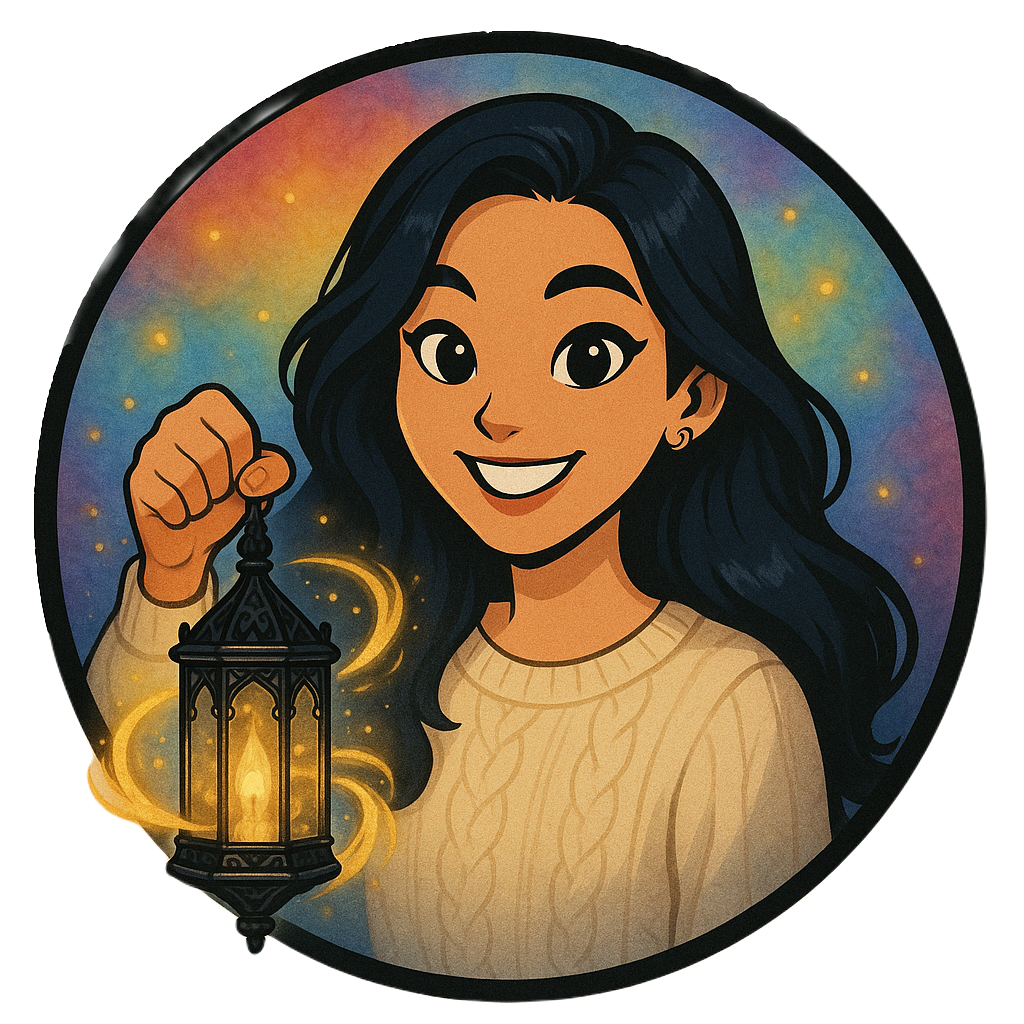
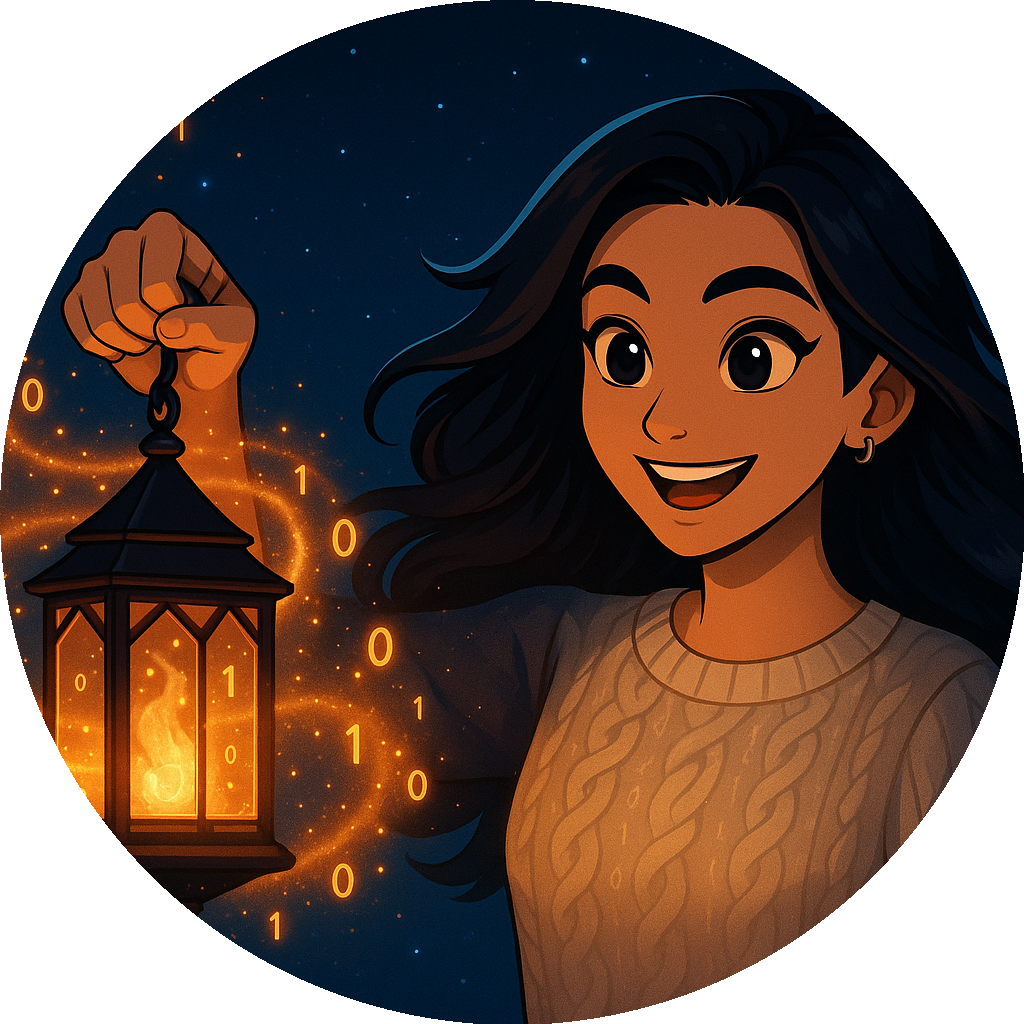
task: update descriptions and images

diff --git a/README.md b/README.md
@@ -1,10 +1,11 @@
 <p align="center">
-  <img src="img/banner.jpg" alt="Welcome Banner">
+  <img src="img/banner.png" alt="Welcome Banner">
 </p>
 
 <h1 align="center">
-  <img src="https://readme-typing-svg.herokuapp.com?font=Red+Hat+Display&weight=600&size=40&duration=4500&pause=800&color=007ACC&center=true&vCenter=true&width=900&height=51&lines=%F0%9F%8C%8A+Welcome!+Make+yourself+at+home...;...(digitally%2C+of+course)." alt="Digital welcome banner" />
+  <img src="https://readme-typing-svg.herokuapp.com?font=Red+Hat+Display&weight=600&size=40&duration=4500&pause=800&color=9C27B0&center=true&vCenter=true&width=900&height=51&lines=%F0%9F%8E%81+Currently+accepting+bugs%2C+features%2C+and+compliments." alt="Typing banner" />
 </h1>
+
 
 <p align="center">
   <a href="https://lisachenworks.com" target="_blank">
@@ -23,14 +24,14 @@
 <h1 align="center">🛠 Ctrl + Z Until It Works</h1>
 
 <p align="center">
-  <img src="img/avatar.png" width="120" alt="avatar">
+  <img src="img/avatar.png" width="200" alt="avatar">
 </p>
 
 
 <h2 align="center">👋 About Me</h2>
 
 <p align="center">
-  <strong>Java-focused software engineer</strong> with experience in <strong>React, Python, and full-stack tools</strong><br>
+  <strong>Java-focused software engineer</strong> with experience in <strong>Python, React, and full-stack tools</strong><br>
   Passionate about <strong>clean code, robust backend systems, and building software that solves real problems</strong>
 </p>
 
@@ -43,16 +44,15 @@
 
 <br>
 
-I'm a software engineer focused on backend development with Java—currently building up my skills in Spring Boot, data structures, and API design. I’ve also explored frontend development using React and Tailwind CSS, which helped me understand full-stack workflows, even though my deeper focus is on Java.
+I'm a full-stack software engineer with a foundation in **Java** and **Python**, currently deepening my backend skills while continuing to build clean, accessible interfaces using **React** and **Tailwind CSS**. I’ve launched open-source templates, client sites, and prototypes that balance functionality with thoughtful design.
 
-Most of my recent projects have leaned frontend, including client sites and open-source templates. Now, I’m shifting toward backend systems that prioritize clean logic, scalability, and maintainability. My goal is to build tools that work well and are easy for other developers to extend.
+Lately, I’ve been focusing on backend fundamentals—data structures, algorithms, and writing logic that’s easy to maintain and scale. I want the systems I build to be not only usable, but extendable by the next developer who picks them up.
 
-Before tech, I worked in civil engineering, accounting, and restaurant management—roles that sharpened my real-world problem-solving and adaptability, both of which shape how I approach software now.
+Before tech, I worked in civil engineering, accounting, and restaurant management—roles that taught me to solve problems quickly, work with people across disciplines, and adapt on the fly. That real-world grounding shapes how I approach software today.
 
-I care about writing clean, efficient code and continuously improving as a developer. When I’m not coding, I’m either avoiding pinky toe injuries 🦶💥 or hanging out with my rescue pups 🐶.
+I care about building tools that are clear, helpful, and resilient. When I’m not coding, I’m either avoiding pinky toe injuries 🦶💥 or hanging out with my rescue pups 🐶.
 
 </details>
-
 
 
 ---
